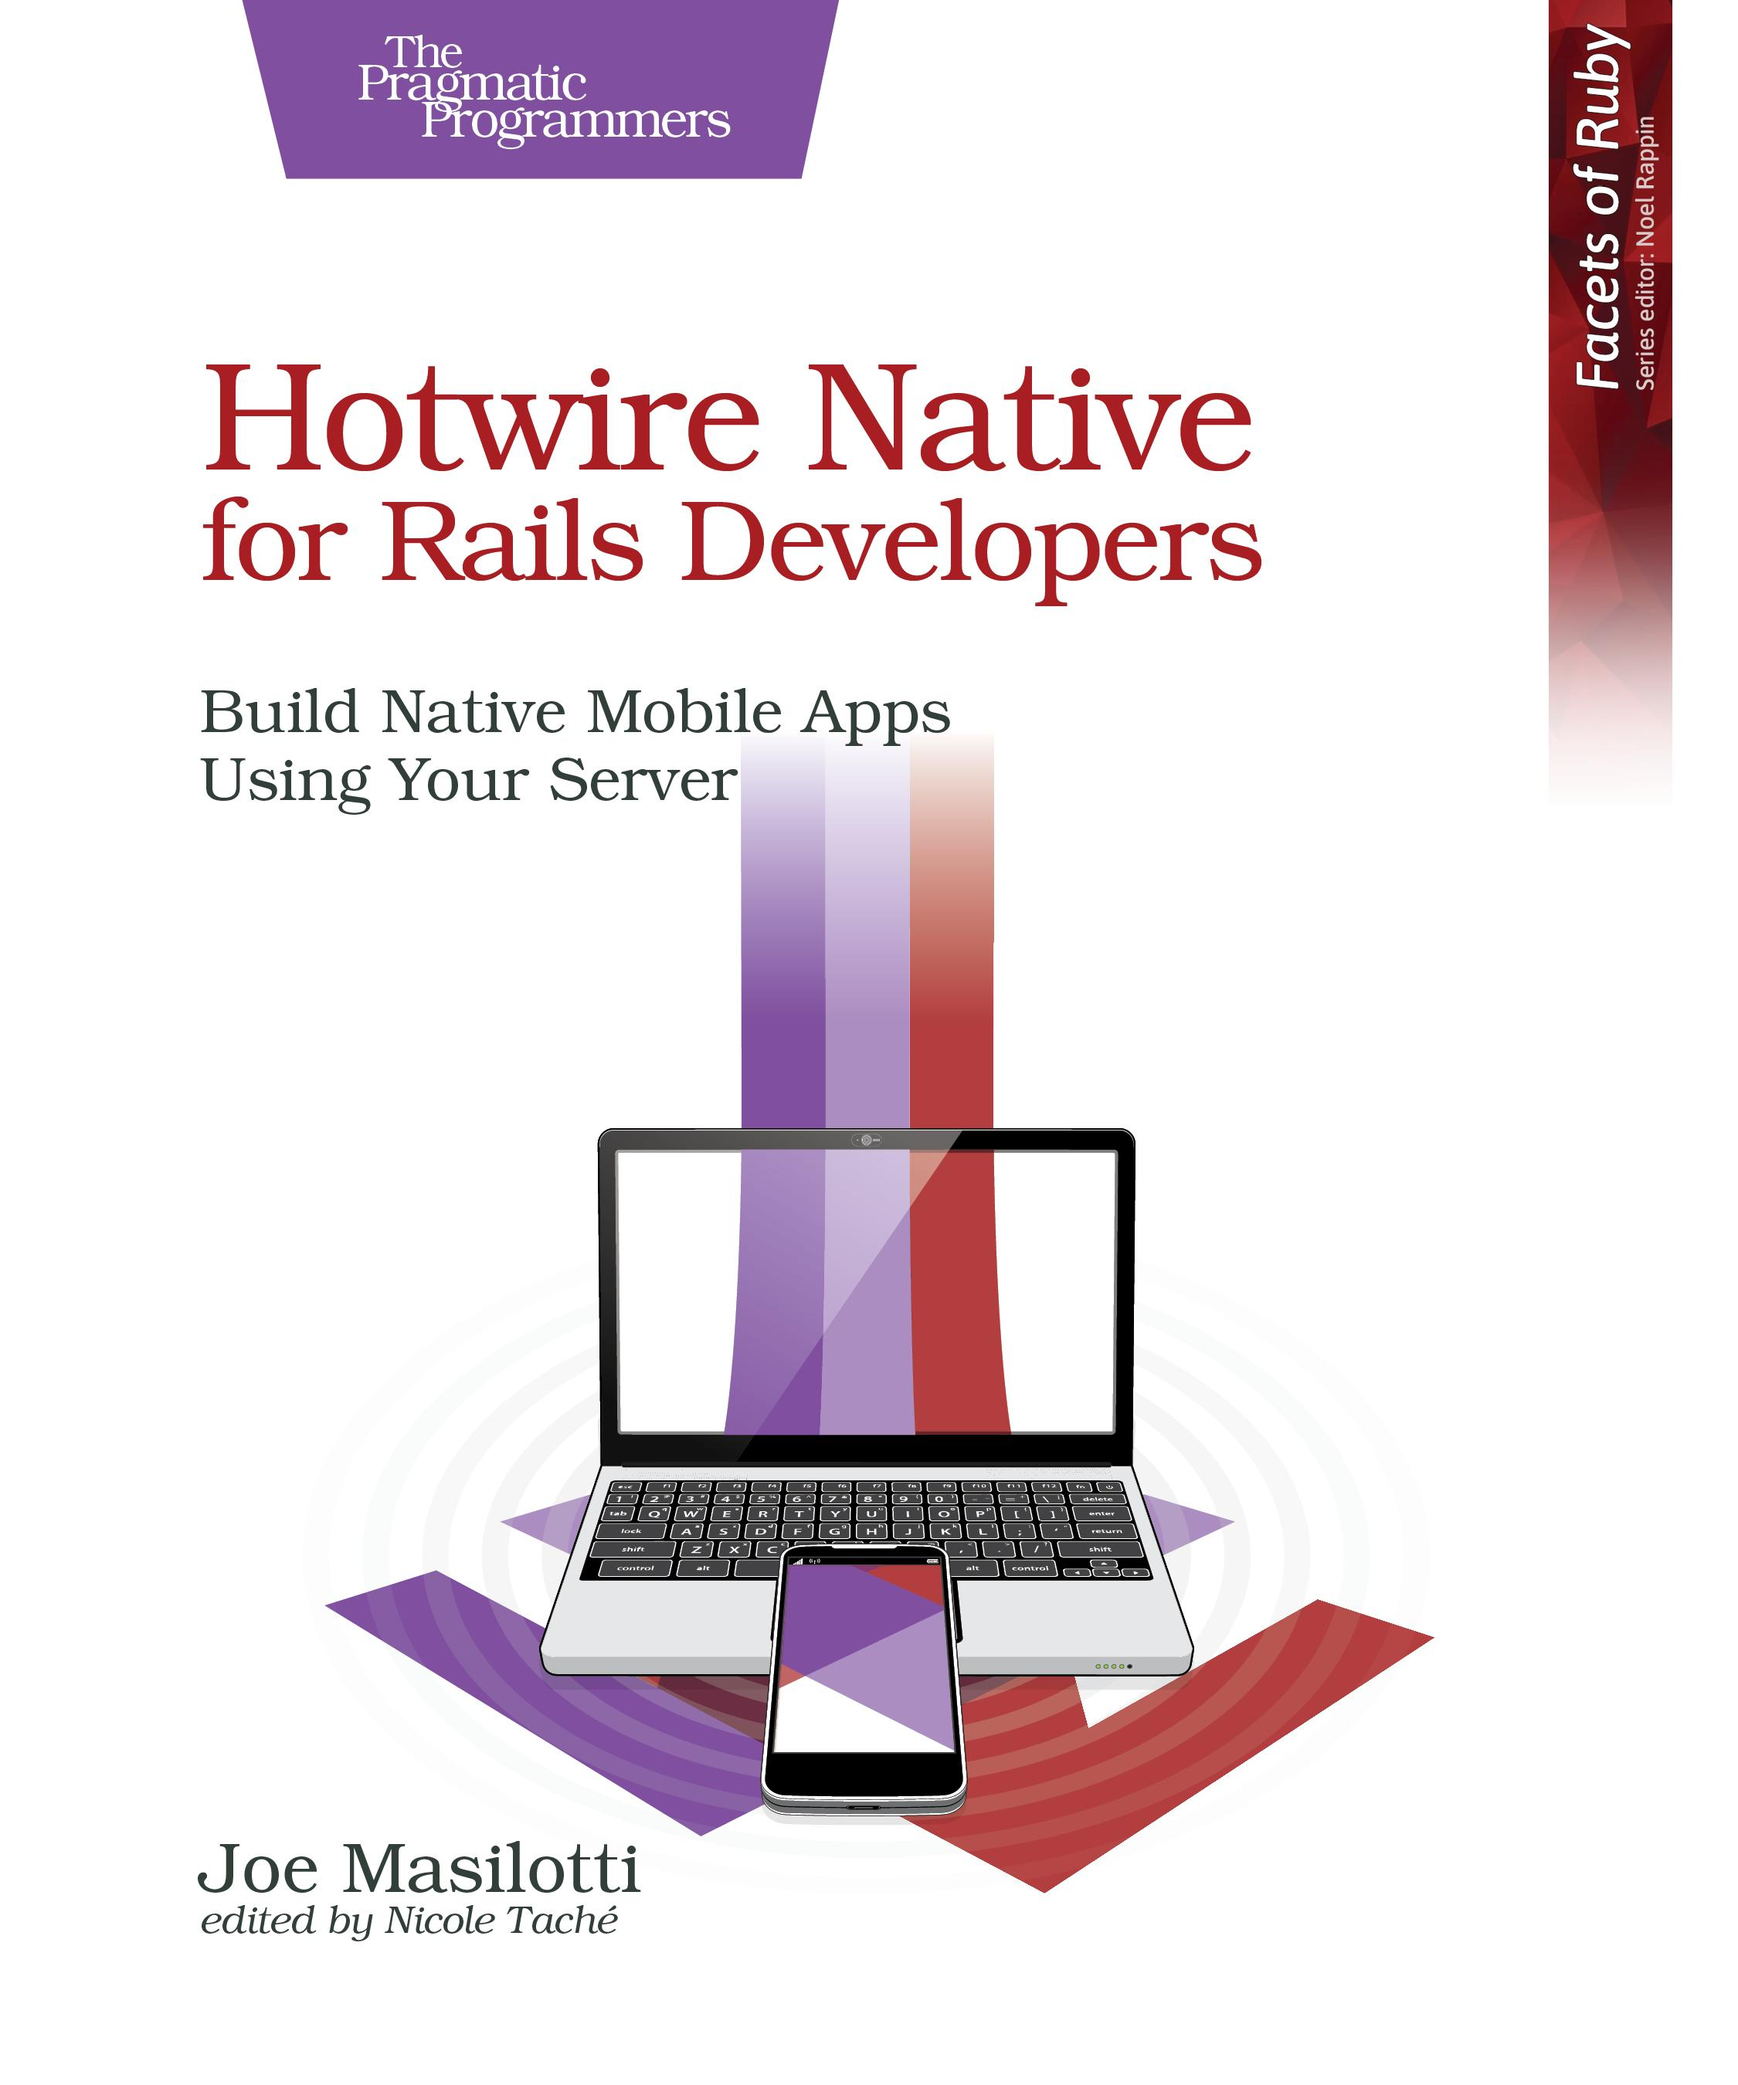
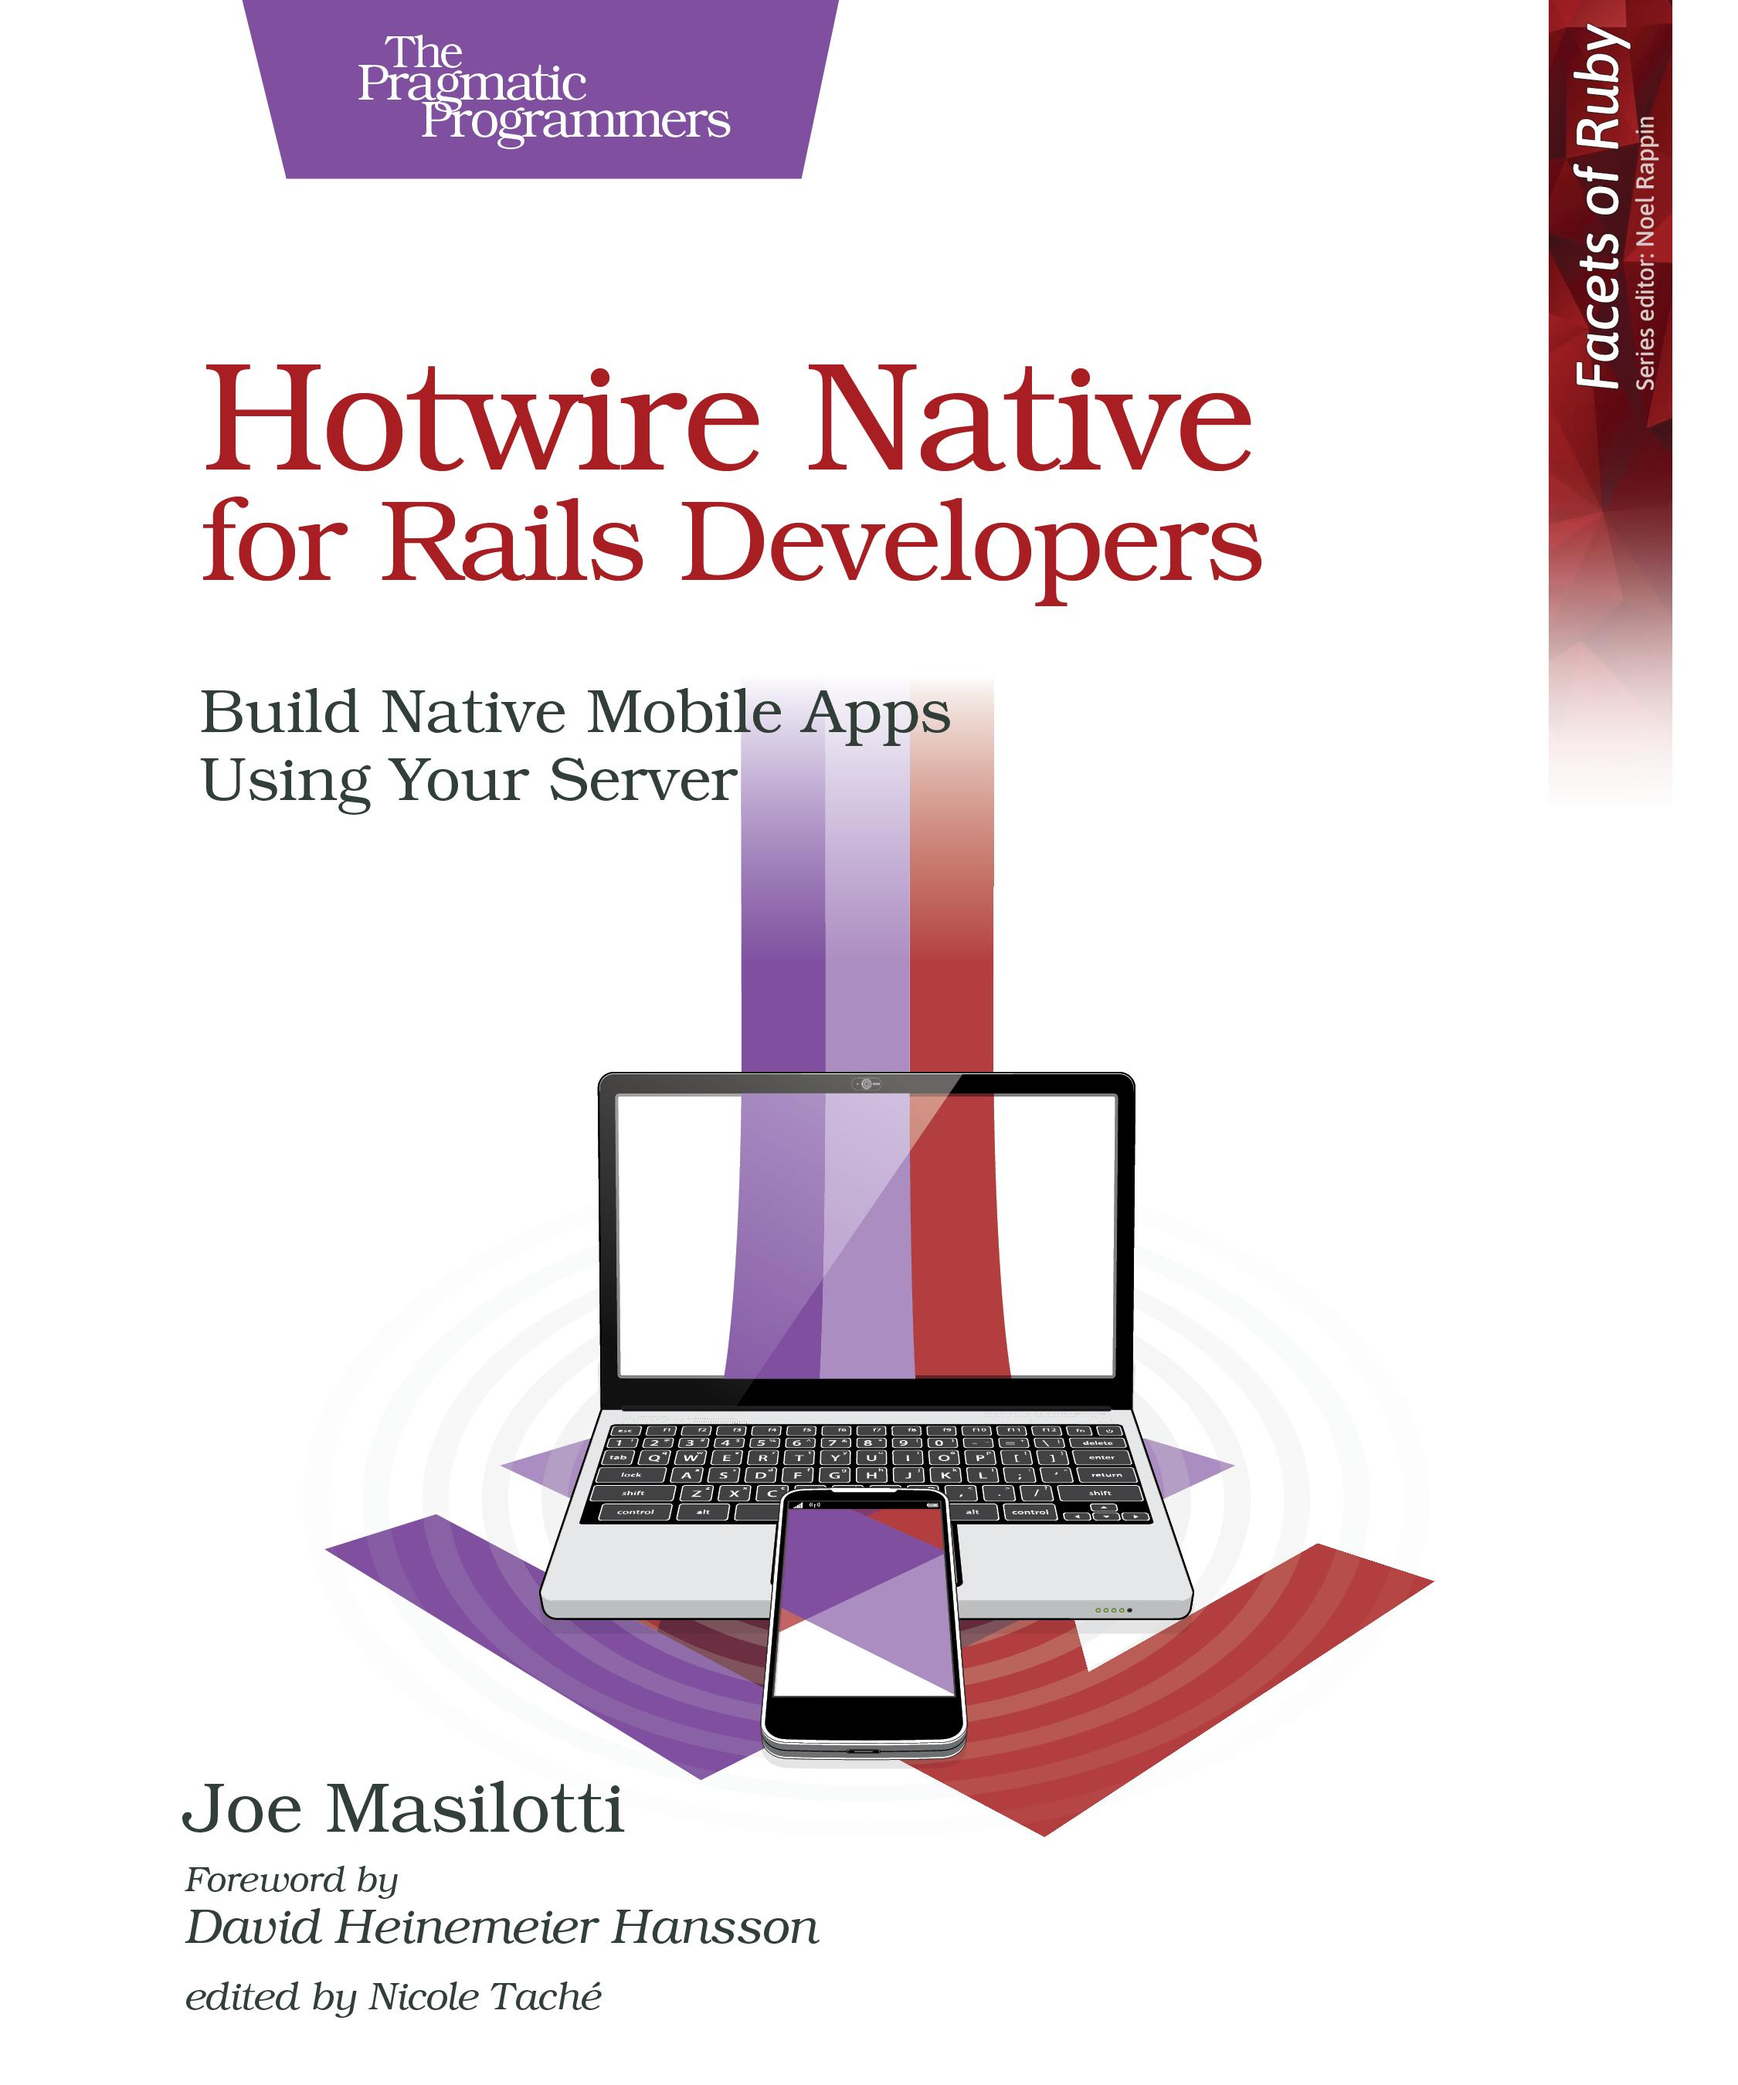
Update book cover image

Changed region(s): [[0.0933, 0.3111, 0.84, 0.9644]]

diff --git a/_posts/2025-01-08-hotwire-native-book-in-beta.md b/_posts/2025-01-08-hotwire-native-book-in-beta.md
@@ -8,7 +8,7 @@ favorite: true
 
 You can now buy my book, [Hotwire Native for Rails Developers]({{ site.data.urls.book }})!
 
-!["Hotwire Native for Rails Developers" by Joe Masilotti cover](/assets/images/hotwire-native-book-in-beta/hotwire-native-for-rails-developers-cover.jpg){:standalone .max-w-md}
+!["Hotwire Native for Rails Developers" by Joe Masilotti cover](/assets/images/hotwire-native-book-in-beta/hotwire-native-for-rails-developers-cover.jpg?v=2){:standalone .max-w-md}
 
 <div class="note mb-8">
   Create intuitive and maintainable mobile apps powered by the technology you already know, Ruby on Rails. Add Hotwire Native to your new or existing Rails app and start creating native iOS and Android applications. You’ll learn how to enhance your apps, progressively adding native components and screens. Bring your existing or new web apps to a much wider mobile audience, and make the app look and feel native to their platform.
